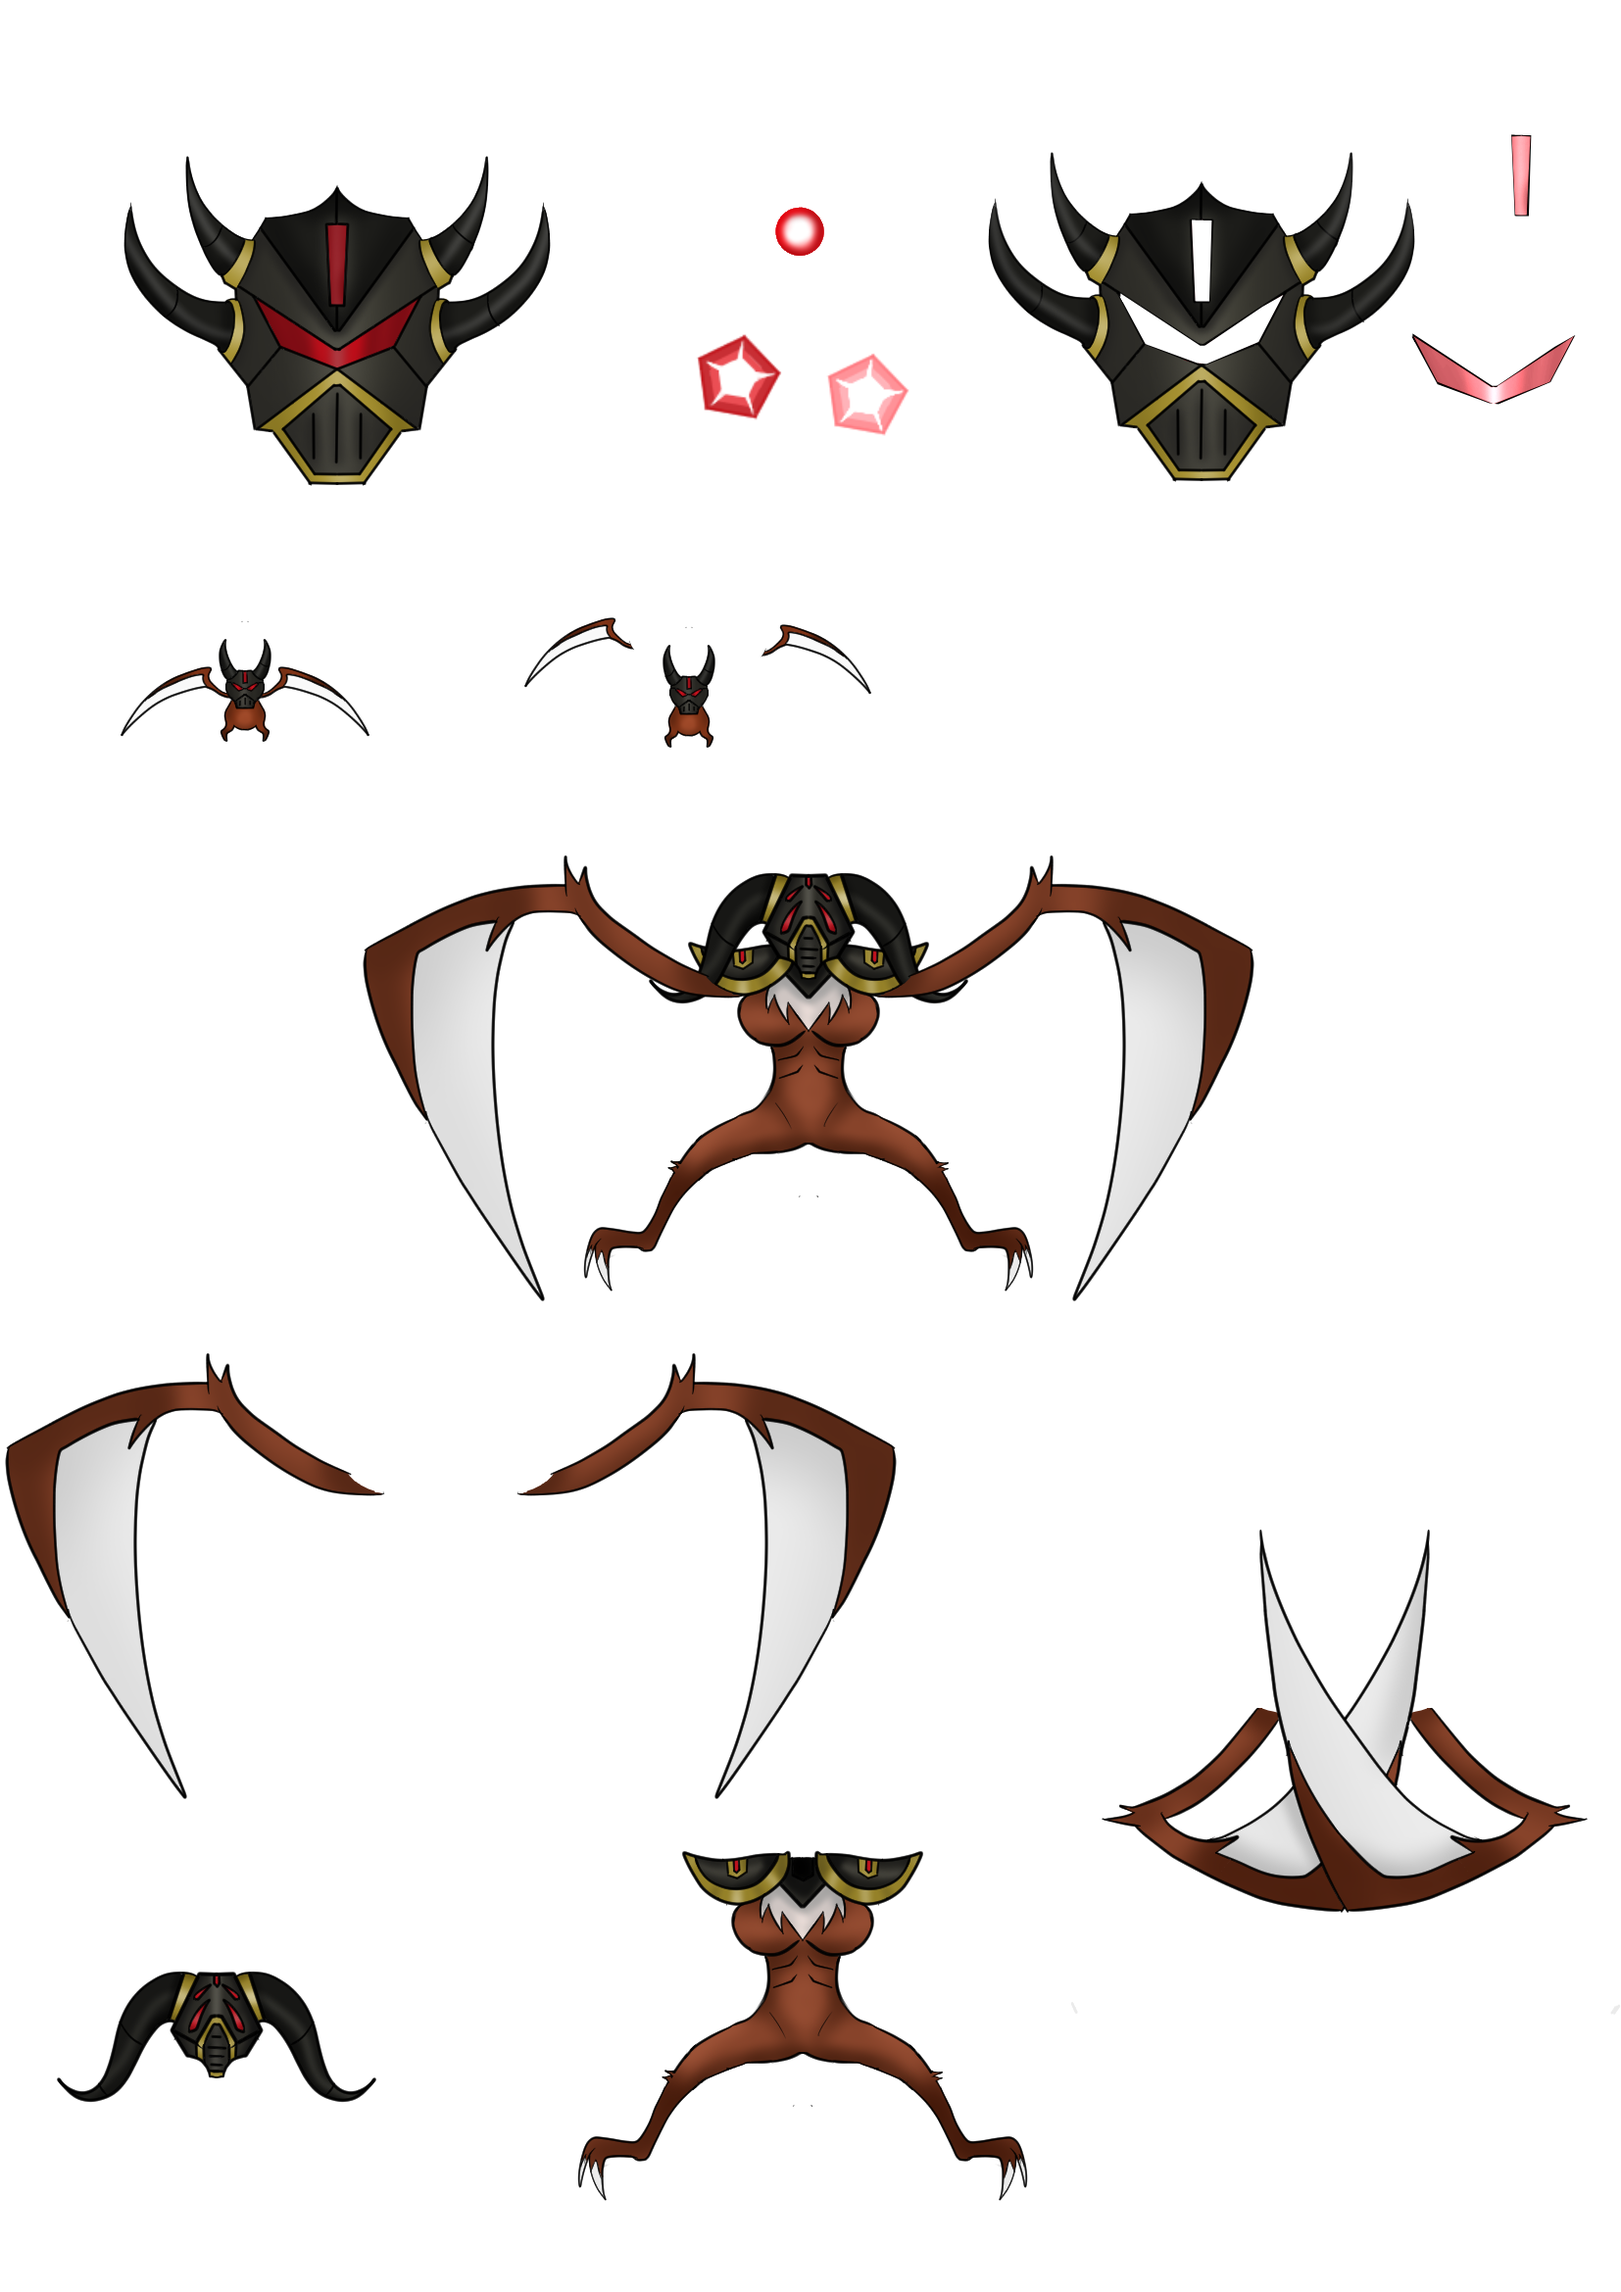
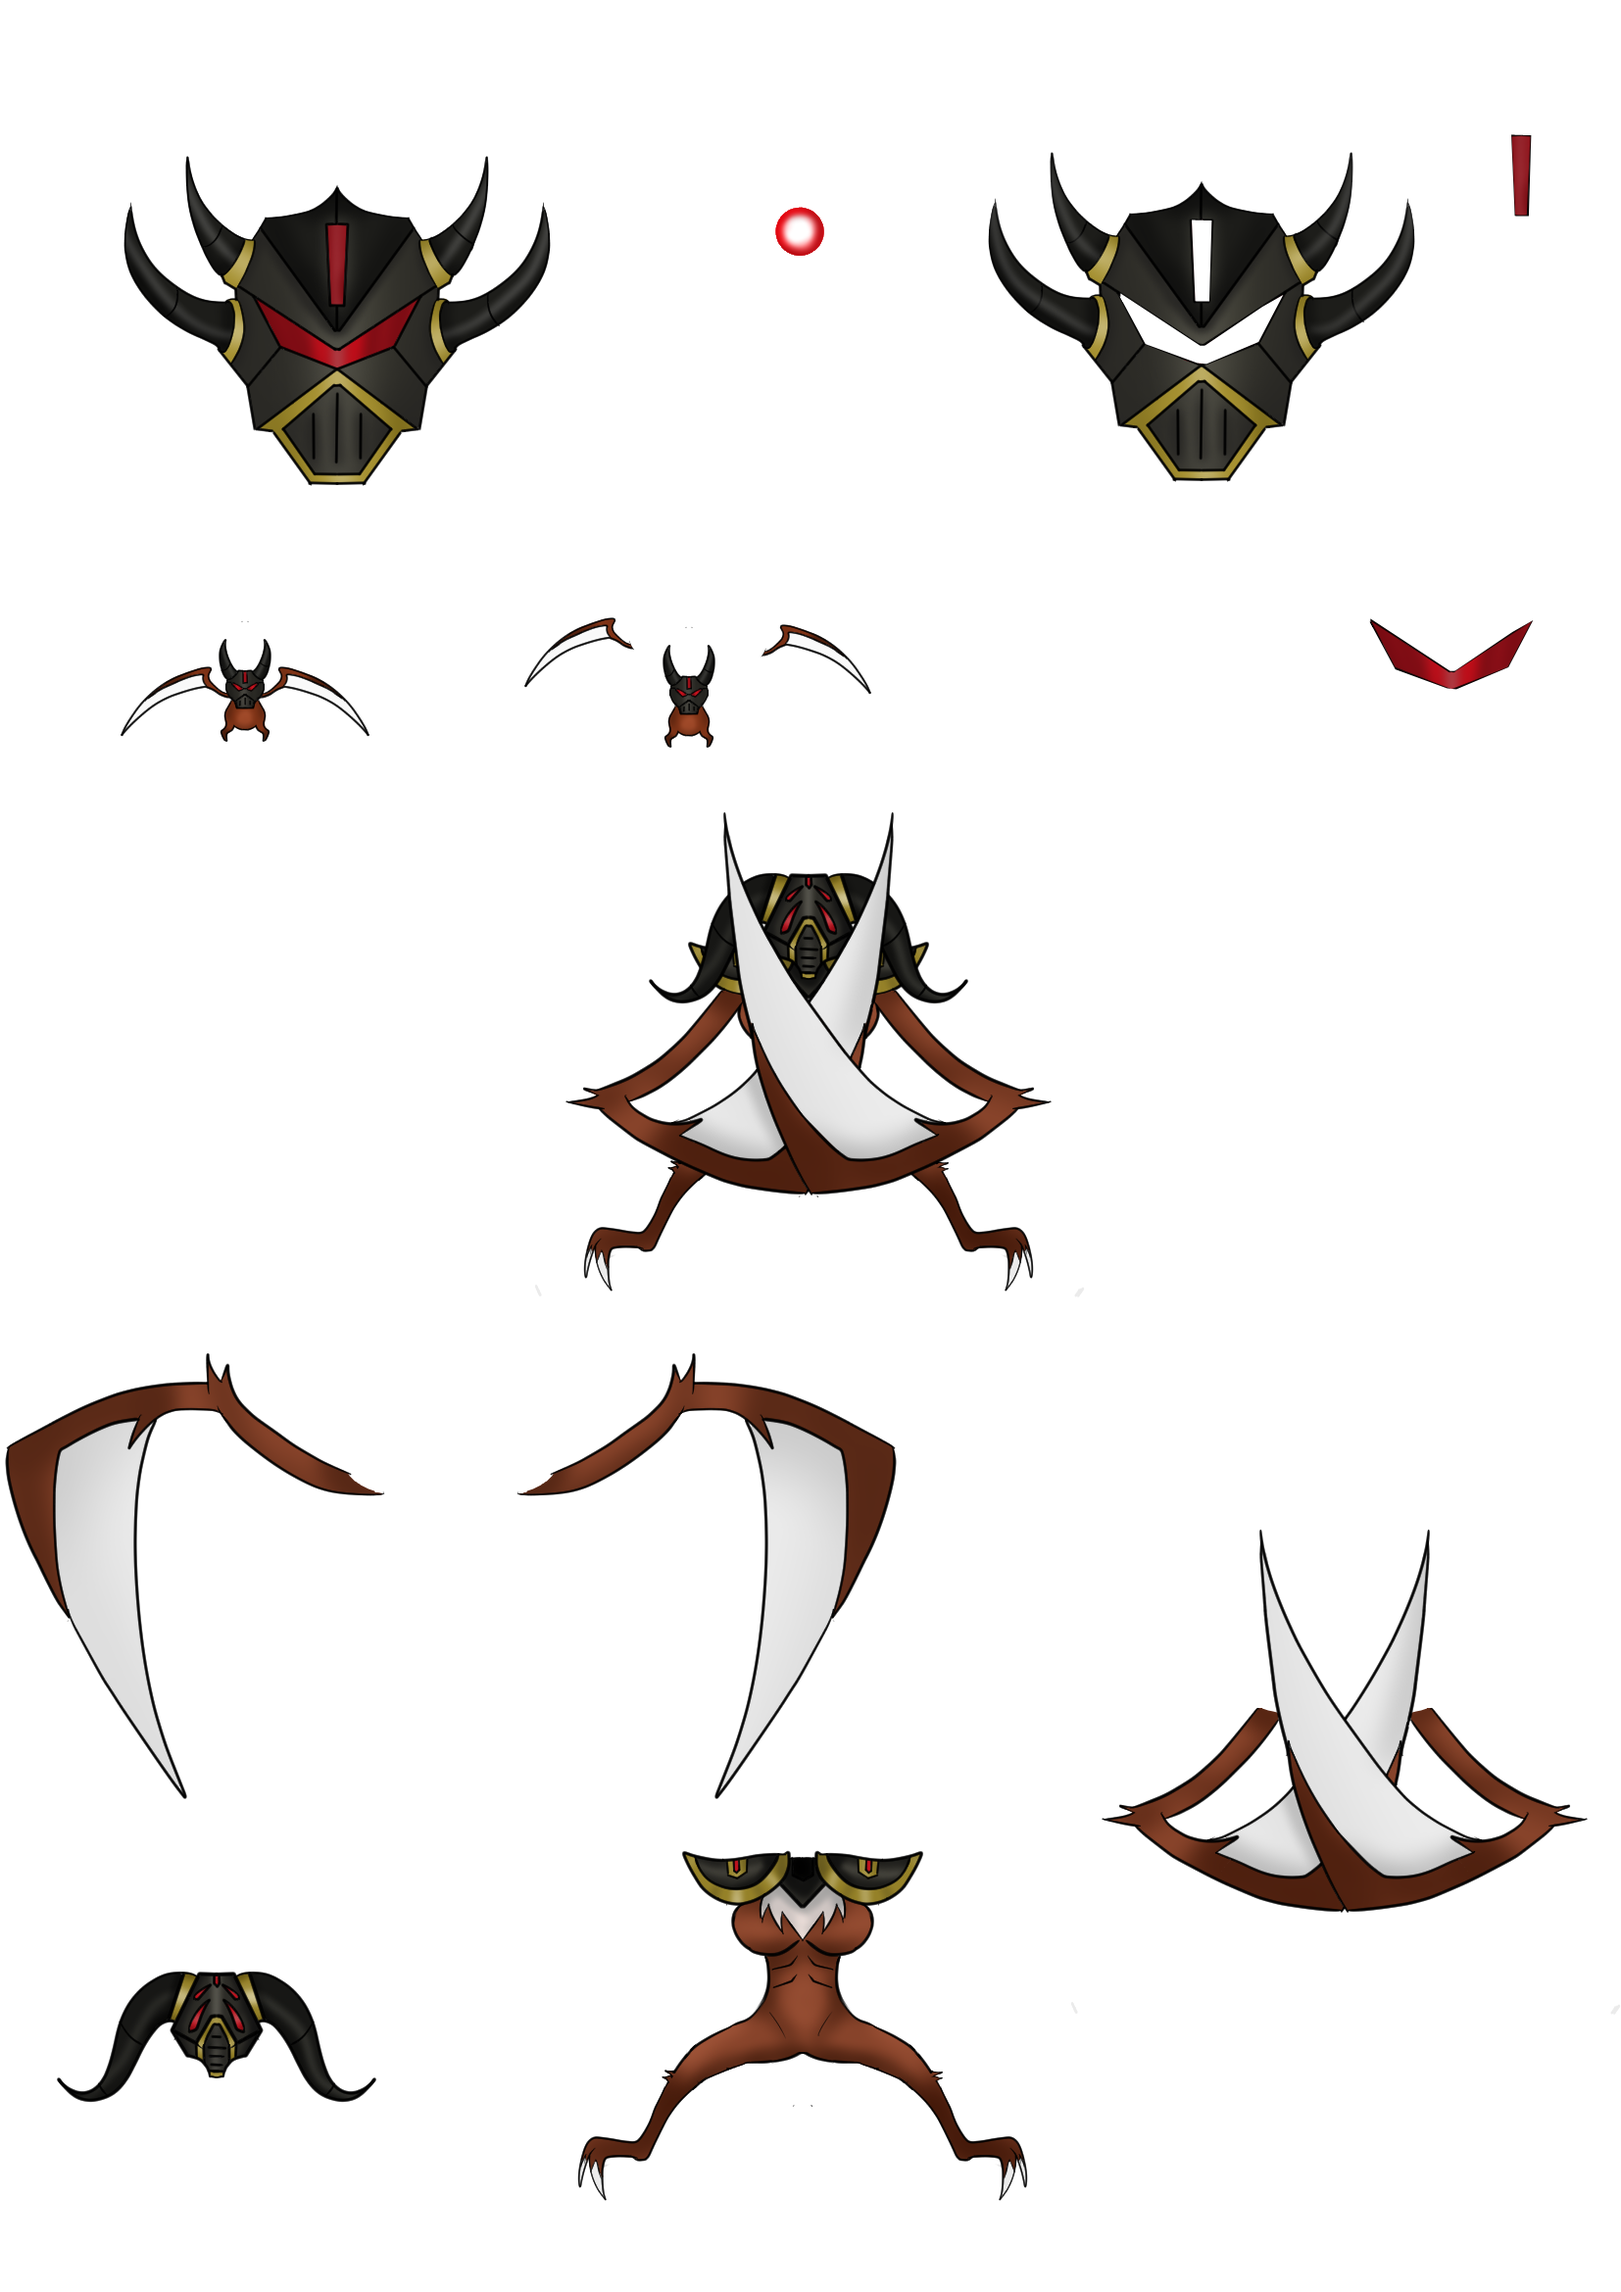
Fixed bat's wing rotation movement + adjusted bathead sprite

diff --git a/Assets/Scripts/Enemies/Bat.cs b/Assets/Scripts/Enemies/Bat.cs
@@ -2,13 +2,16 @@
 using System.Collections.Generic;
 using UnityEngine;
 
-public class Bat : EnemyBase {
+public class Bat : EnemyBase 
+{
 	private Transform wingL;
 	private Transform wingR;
 	private Vector3 vector=new Vector3();
 	public Vector3 target=new Vector3();
 
-	new void Start () {
+
+	new void Start () 
+	{
 		base.Start();
 		explosionID = 9;
 		hp=10;
@@ -35,12 +38,13 @@ public class Bat : EnemyBase {
 			target.Set(transform.position.x+(i==8 ? 5: -5),transform.position.y,0);
 		}
 	}
-	new void Update () {
+	new void Update () 
+	{
 		if(Ship.paused) return;
 		base.Update();
-		vector.Set(0,0,Mathf.PingPong(Time.time*300,-45f)+60f);
-		wingL.localEulerAngles=vector;
-		wingR.localEulerAngles=-vector;
+		vector.Set(0,0,Mathf.PingPong(Time.time*300,60f)-60f);
+		wingL.eulerAngles=vector;
+		wingR.eulerAngles=-vector;
 		Vector3 pos=transform.position;
 		pos=Vector3.MoveTowards(pos,target,Time.deltaTime*3);
 		if((target-pos).sqrMagnitude<0.2f)target=pos+(player.position-pos).normalized*8;
